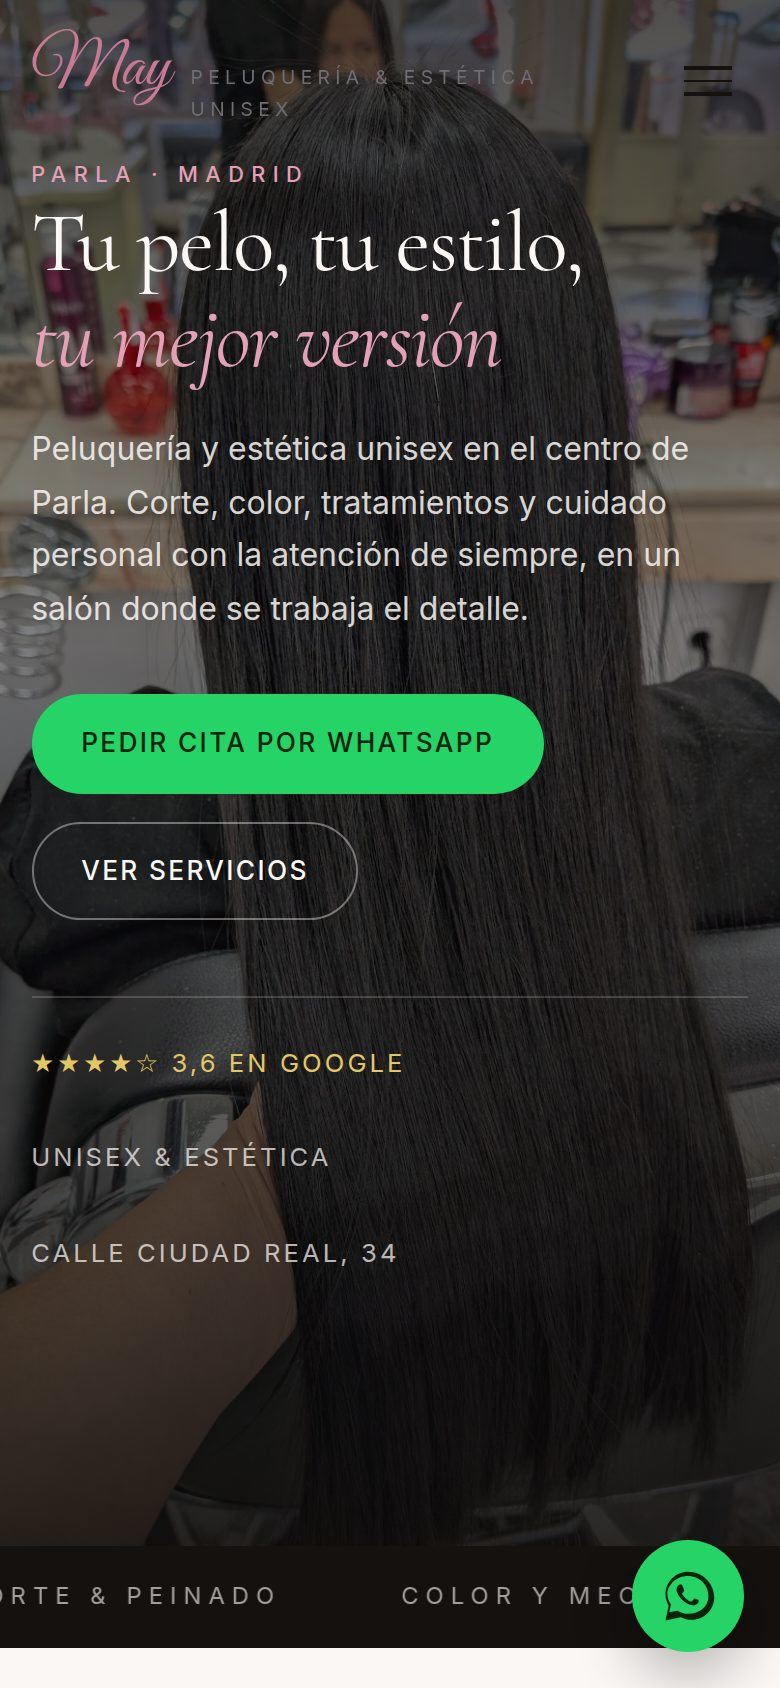
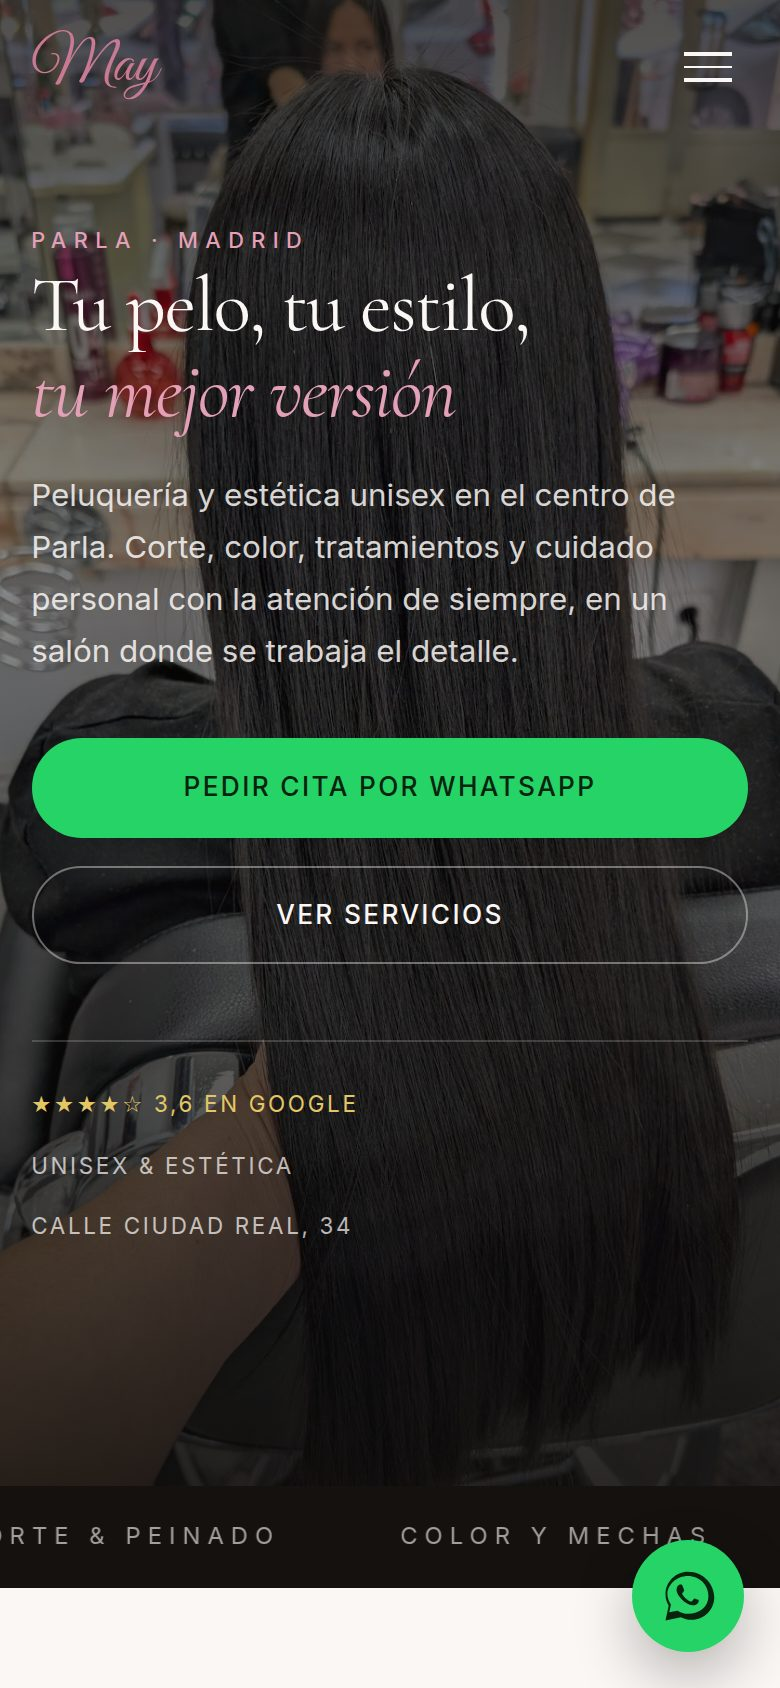
Herramientas de scraping Maps y QA dentro del proyecto

diff --git a/maps_detalle.py b/maps_detalle.py
@@ -1,0 +1,63 @@
+#!/usr/bin/env python3
+"""Extrae de la ficha de Google Maps: horario, fotos, reseñas y redes sociales."""
+import json
+import re
+import time
+
+from playwright.sync_api import sync_playwright
+
+EXE = "/home/dorti/.cache/ms-playwright/chromium-1234/chrome-linux64/chrome"
+UA = ("Mozilla/5.0 (Windows NT 10.0; Win64; x64) AppleWebKit/537.36 "
+      "(KHTML, like Gecko) Chrome/126.0.0.0 Safari/537.36")
+URL = ("https://maps.google.com/maps/place//data=!4m2!3m1!1s0xd41f57895a67f91:"
+       "0x9fdcc73bcd40eace?entry=s&sa=X&hl=es")
+
+out = {}
+with sync_playwright() as p:
+    b = p.chromium.launch(executable_path=EXE, headless=True,
+                          args=["--no-sandbox", "--disable-dev-shm-usage", "--lang=es-ES"])
+    ctx = b.new_context(locale="es-ES", user_agent=UA, viewport={"width": 1500, "height": 1000})
+    pg = ctx.new_page()
+    pg.goto(URL, wait_until="domcontentloaded", timeout=90000)
+    time.sleep(5)
+    for sel in ['button:has-text("Aceptar todo")', 'button:has-text("Rechazar todo")']:
+        try:
+            pg.click(sel, timeout=2500)
+            time.sleep(2)
+            break
+        except Exception:
+            pass
+    time.sleep(3)
+    out["nombre"] = pg.inner_text("h1")
+    # Horario: desplegar
+    for sel in ['div[aria-label*="Horario"]', 'button[data-item-id="oh"]',
+                'img[aria-label*="Horario"]', 'div[jsaction*="openhours"]']:
+        try:
+            pg.click(sel, timeout=2000)
+            time.sleep(1.5)
+            break
+        except Exception:
+            pass
+    time.sleep(1)
+    try:
+        out["horario"] = pg.inner_text("table", timeout=5000).strip()[:400]
+    except Exception:
+        out["horario"] = "(no visible)"
+    # Texto completo del panel (reservas, servicios, reseñas, redes)
+    try:
+        out["panel"] = re.sub(r"\n{2,}", "\n", pg.inner_text('div[role="main"]', timeout=8000))[:3500]
+    except Exception as e:
+        out["panel"] = f"(err {e})"
+    # Fotos
+    try:
+        pg.click('button[aria-label*="Fotos"], button[jsaction*="heroHeaderImage"]', timeout=6000)
+        time.sleep(4)
+        srcs = pg.eval_on_selector_all(
+            "img", "els => els.map(e => e.src).filter(s => s.includes('googleusercontent') && s.includes('=w'))")
+        out["fotos"] = list(dict.fromkeys([s.split("=")[0] + "=w1200-h1200" for s in srcs]))[:14]
+    except Exception as e:
+        out["fotos"] = [f"(err {e})"]
+    pg.screenshot(path="/tmp/maps_detalle.png")
+    b.close()
+
+print(json.dumps(out, ensure_ascii=False, indent=2)[:5000])

diff --git a/maps_scout.py b/maps_scout.py
@@ -1,0 +1,50 @@
+#!/usr/bin/env python3
+"""Resuelve un enlace de Google Maps (formato 0x...:0x...) al negocio real."""
+import json
+import sys
+import time
+
+from playwright.sync_api import sync_playwright
+
+EXE = "/home/dorti/.cache/ms-playwright/chromium-1234/chrome-linux64/chrome"
+UA = ("Mozilla/5.0 (Windows NT 10.0; Win64; x64) AppleWebKit/537.36 "
+      "(KHTML, like Gecko) Chrome/126.0.0.0 Safari/537.36")
+
+URL = sys.argv[1] if len(sys.argv) > 1 else (
+    "https://maps.google.com/maps/place//data=!4m2!3m1!1s0xd41f57895a67f91:"
+    "0x9fdcc73bcd40eace?entry=s&sa=X&hl=es")
+
+data = {}
+with sync_playwright() as p:
+    b = p.chromium.launch(executable_path=EXE, headless=True,
+                          args=["--no-sandbox", "--disable-dev-shm-usage", "--lang=es-ES"])
+    ctx = b.new_context(locale="es-ES", user_agent=UA, viewport={"width": 1400, "height": 950})
+    pg = ctx.new_page()
+    pg.goto(URL, wait_until="domcontentloaded", timeout=90000)
+    time.sleep(5)
+    for sel in ['button:has-text("Aceptar todo")', 'button:has-text("Accept all")',
+                'button:has-text("Rechazar todo")', 'form[action*="consent"] button']:
+        try:
+            pg.click(sel, timeout=2500)
+            time.sleep(2)
+            break
+        except Exception:
+            pass
+    time.sleep(4)
+    data["url_final"] = pg.url
+    data["title"] = pg.title()
+    for label, sel in [("h1", "h1"), ("direccion", '[data-item-id="address"]'),
+                       ("telefono", '[data-item-id^="phone"]'), ("web", 'a[data-item-id="authority"]'),
+                       ("valoracion", 'div.F7nice'), ("categoria", 'button[jsaction*="category"]')]:
+        try:
+            data[label] = pg.inner_text(sel, timeout=6000).strip()
+        except Exception as e:
+            data[label] = f"(no encontrado: {type(e).__name__})"
+    try:
+        data["resenas_texto"] = pg.inner_text('[data-item-id="reviews"]', timeout=4000).strip()
+    except Exception:
+        pass
+    pg.screenshot(path="/tmp/maps_scout.png")
+    b.close()
+
+print(json.dumps(data, ensure_ascii=False, indent=2))
